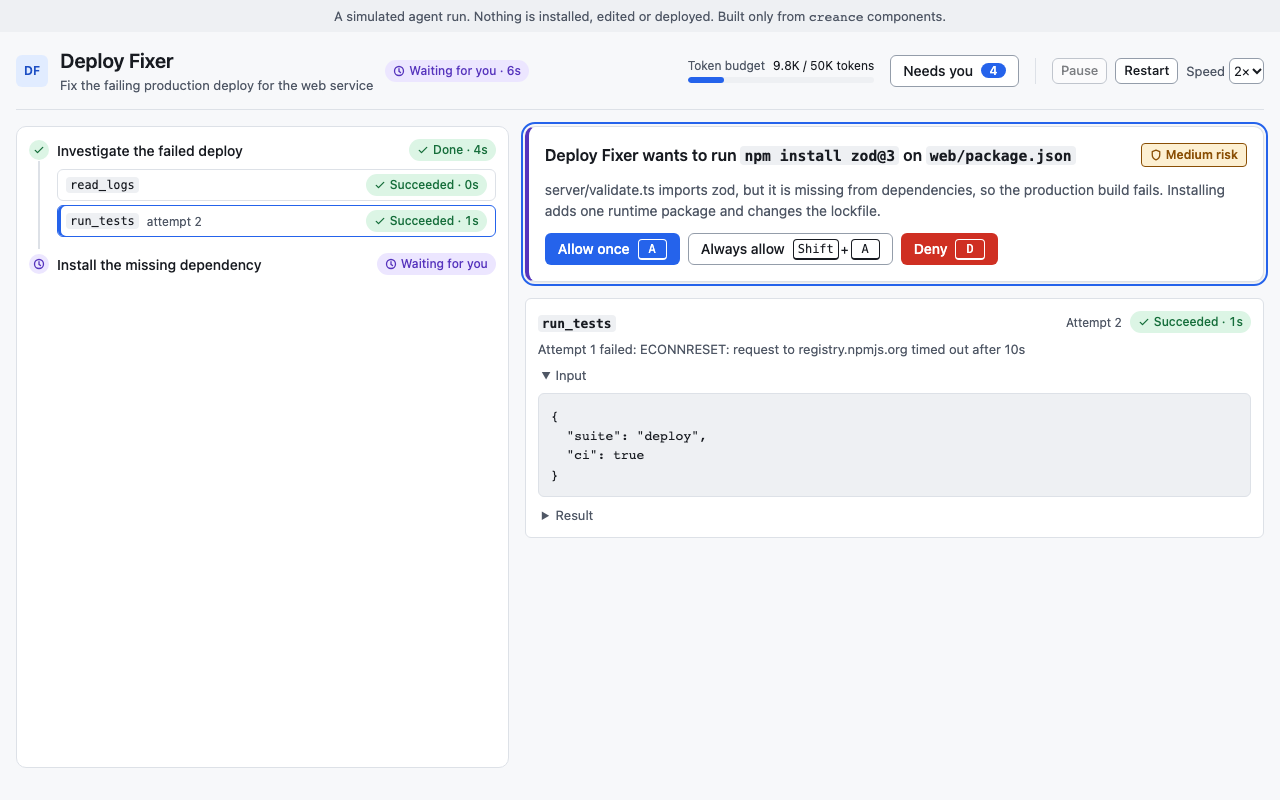
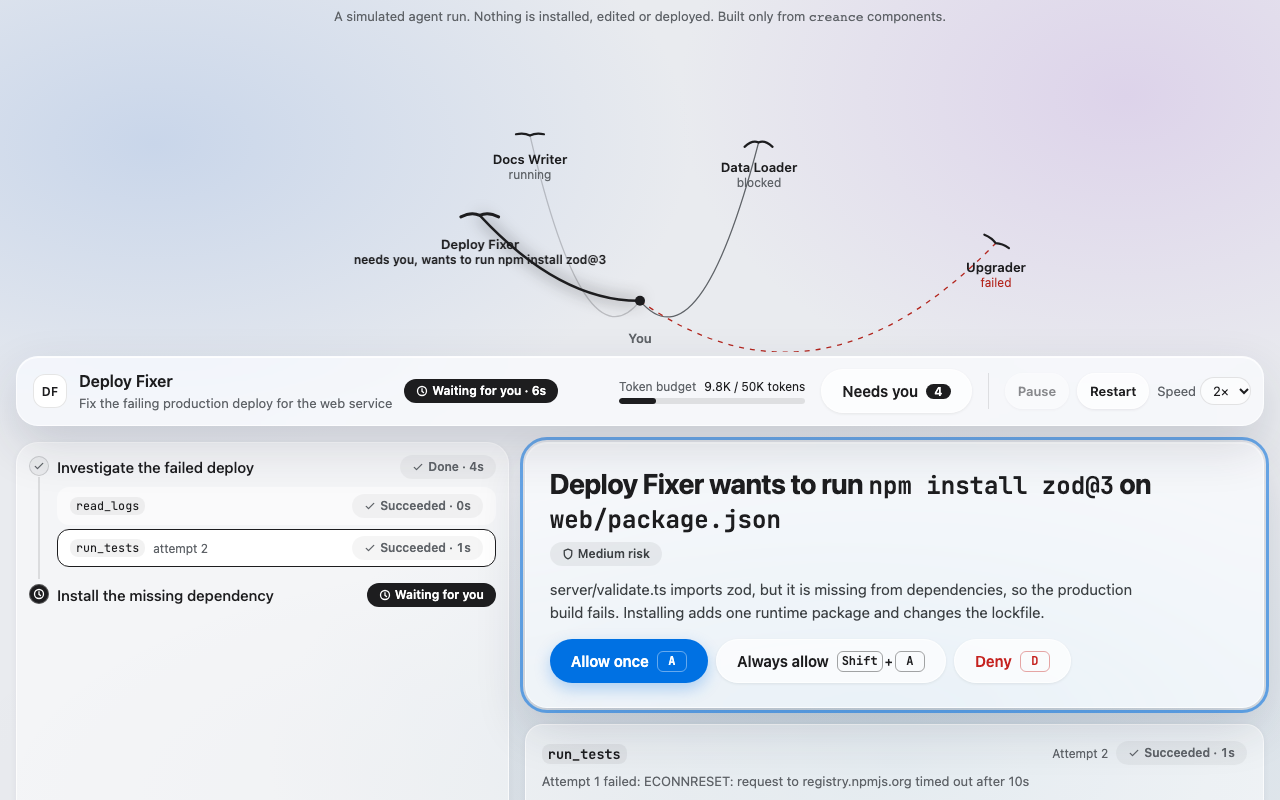
README: current design, quick start, theming, new demo recording
The demo GIF and screenshot still showed the design from before the
glass redesign. Re-recorded both, added a screenshot of the site, and
rewrote the opening to describe the whole library. Adds sections on
using it and on design and theming. The package README and description
now match.

Claude-Session: https://claude.ai/code/session_01Ld1d1FmcS82LN7Q71pGk4k

diff --git a/README.md b/README.md
@@ -1,6 +1,6 @@
 # Creance
 
-**An open-source React UI kit for supervising AI agents.** It covers the screens where a person approves what an agent wants to do, watches it work, reviews its changes and takes back control when it is done.
+**An open-source React component library in a frosted-glass style.** 90 components in light and dark: the general set an app needs (forms, navigation, overlays, tables, feedback), plus a set for supervising AI agents, where a person approves what an agent wants to do, watches it work, reviews its changes and takes back control when it is done.
 
 ![The demo: an agent fixes a failing deploy, asks to install a package, proposes a config diff, and hands back](docs/images/demo.gif)
 
@@ -10,7 +10,54 @@
 
 ---
 
-## The problem
+## Use it
+
+Creance is not on npm yet, so today it runs from a clone of this repository:
+
+```sh
+pnpm install
+pnpm build   # the tokens and the components
+pnpm site    # every component running live, with code you can edit
+```
+
+![The docs site: the Table page, with a live preview above the code that produces it](docs/images/site.png)
+
+Once it is published, installing will be `npm install creance creance-tokens`. Import the two stylesheets once, tokens first, then use the components:
+
+```tsx
+import 'creance-tokens/tokens.css';
+import 'creance/styles.css';
+import { Button, Field, Input } from 'creance';
+
+<Field label="Agent name" hint="Shown in the run header and the inbox.">
+  <Input defaultValue="Deploy Fixer" />
+</Field>
+<Button variant="primary">Save</Button>
+```
+
+React 18 or later is the only peer dependency. [Frameworks](#frameworks) lists where it has been tested.
+
+## Design and theming
+
+- **Frosted glass.** Four surface layers, from the page window down to popovers, each a tint at its own opacity over a blurred backdrop. The classes are public: `.cr-window`, `.cr-surface`, `.cr-glass`, `.cr-popover`.
+- **Colour is rationed.** Neutral greys throughout. Blue marks the one primary action, near-black marks what needs you or is selected, and red is only for failure and refusal. Every status also has an icon and text.
+- **Light and dark.** The theme follows the operating system; `data-theme="light"` or `data-theme="dark"` on `<html>` forces one.
+- **Solid mode.** Every glass layer turns opaque with no blur when someone asks their system for less transparency or more contrast, or when you set `data-transparency="reduce"`.
+
+Every colour, radius, shadow, font and glass opacity is a CSS variable. To theme, set them in a `:root` rule after the Creance stylesheets; it applies in both themes.
+
+```css
+:root {
+  --cr-color-accent-bg: #7c3aed;
+  --cr-color-accent-bg-hover: #6d28d9;
+  --cr-glass-opacity-sheet: 80%;
+  --cr-font-family-sans: 'Your Font', system-ui, sans-serif;
+}
+```
+
+Two limits: glass tint and opacity only take effect on `:root`, not on a section of a page, and a system request for less transparency, more contrast or reduced motion always wins over your values.
+
+## The agent components
 
 Most agent UI work goes into chat: message bubbles, streaming text, prompt boxes. That is well covered already. Once an agent can run commands, edit files and spend money, the harder interface problem is **control and trust**:
 
@@ -20,7 +67,7 @@ Most agent UI work goes into chat: message bubbles, streaming text, prompt boxes
 - *What is waiting on me?* One place for everything blocked on a person, across agents.
 - *Is it finished?* A clear point where the agent hands control back.
 
-Creance is a design system for those screens. It deliberately has no chat components.
+The twelve agent organisms are built for those screens. Creance deliberately has no chat components.
 
 ## What's in it
 
@@ -122,7 +169,7 @@ All of these run in GitHub Actions on every push and pull request (`.github/work
 | Visual regression | Playwright screenshots, Linux baselines from the Playwright Docker image | 46 key stories × light and dark (92 screenshots) |
 | End to end | Playwright + axe | The demo: the full scenario, and the deny path |
 | Next.js | Playwright on a Next.js 16 App Router app (`pnpm test:next`) | All 90 components: rendered by the server, hydrated without errors, interactive |
-| Site | Playwright on the site (`pnpm test:site`) | All 99 pages and every live example render; editing an example updates its preview |
+| Site | Playwright on the site (`pnpm test:site`) | All 99 pages and every live example render; editing an example updates its preview; a `:root` token override restyles components in both themes |
 | Bundle size | size-limit | Budgets: all components 28 kB, ApprovalPrompt alone 2.5 kB, CSS 12 kB, simulator 2.5 kB (brotli, without React and Radix). Today: 25.8 kB, 1.87 kB, 10.9 kB, 2.2 kB |
 | Release | Changesets status + `pnpm publish --dry-run` | Both packages |
 

diff --git a/packages/react/README.md b/packages/react/README.md
@@ -1,6 +1,6 @@
 # creance
 
-React components for supervising AI agents: approvals, tool calls, run timelines, diff review, an inbox of everything waiting on a person, and handoffs. Not chat.
+A React component library in a frosted-glass style: 90 components in light and dark. It has the general set an app needs (forms, navigation, overlays, tables, feedback) and a set for supervising AI agents: approvals, tool calls, run timelines, diff review, an inbox of everything waiting on a person, and handoffs. No chat components.
 
 ```sh
 npm install creance creance-tokens
@@ -24,6 +24,6 @@ import { ApprovalPrompt } from 'creance';
 
 Drive everything from an event stream with `useAgentRun(events)`, or try it with no backend using `creance/simulator`. Components take plain props and work on their own.
 
-React 18 or later. Plain CSS on `--cr-*` custom properties; no CSS-in-JS runtime. MIT licence.
+React 18 or later. Works in the Next.js App Router: modules that need the browser are marked `"use client"`. Plain CSS on `--cr-*` custom properties with no CSS-in-JS runtime; theme it by setting those properties in a `:root` rule. MIT licence.
 
-See the repository README and the Storybook for docs, usage guidelines and accessibility notes.
+See the repository README and the project site for docs, live examples, props and accessibility notes.
